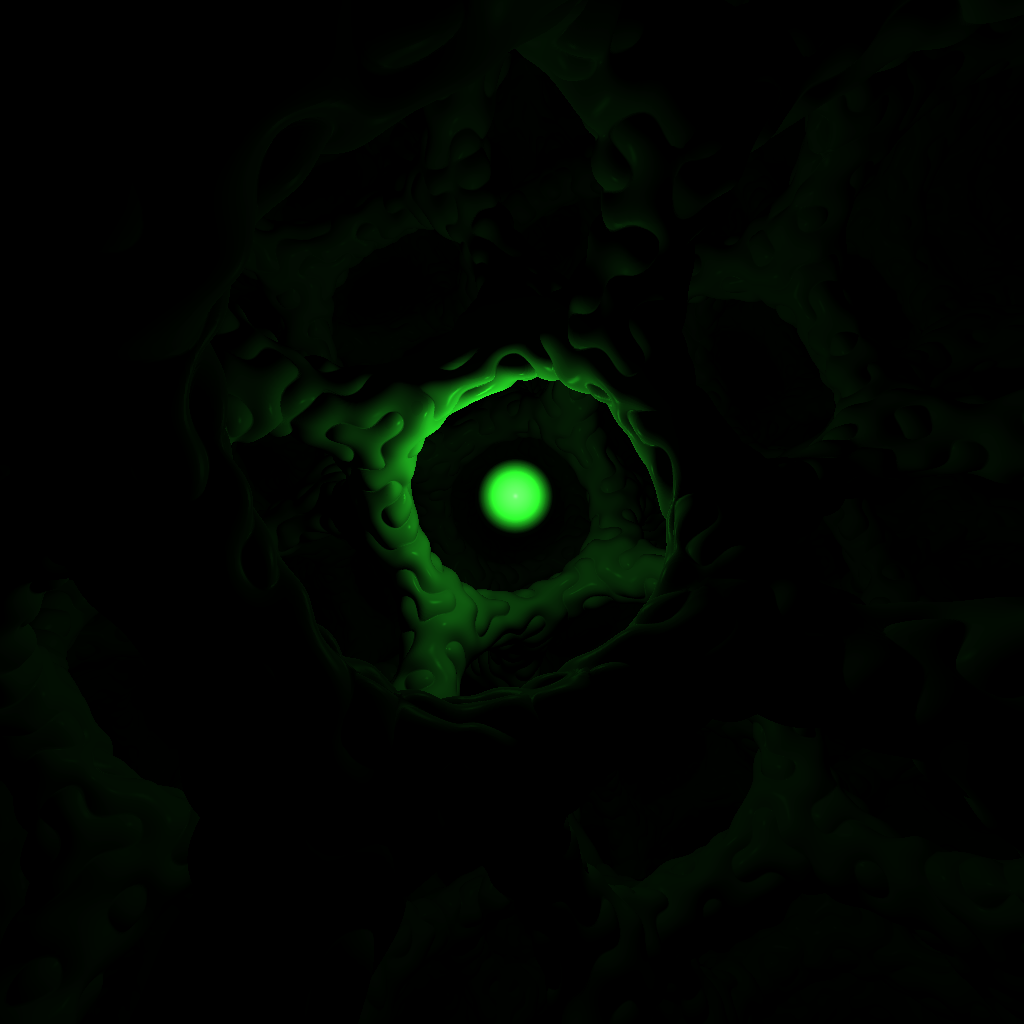
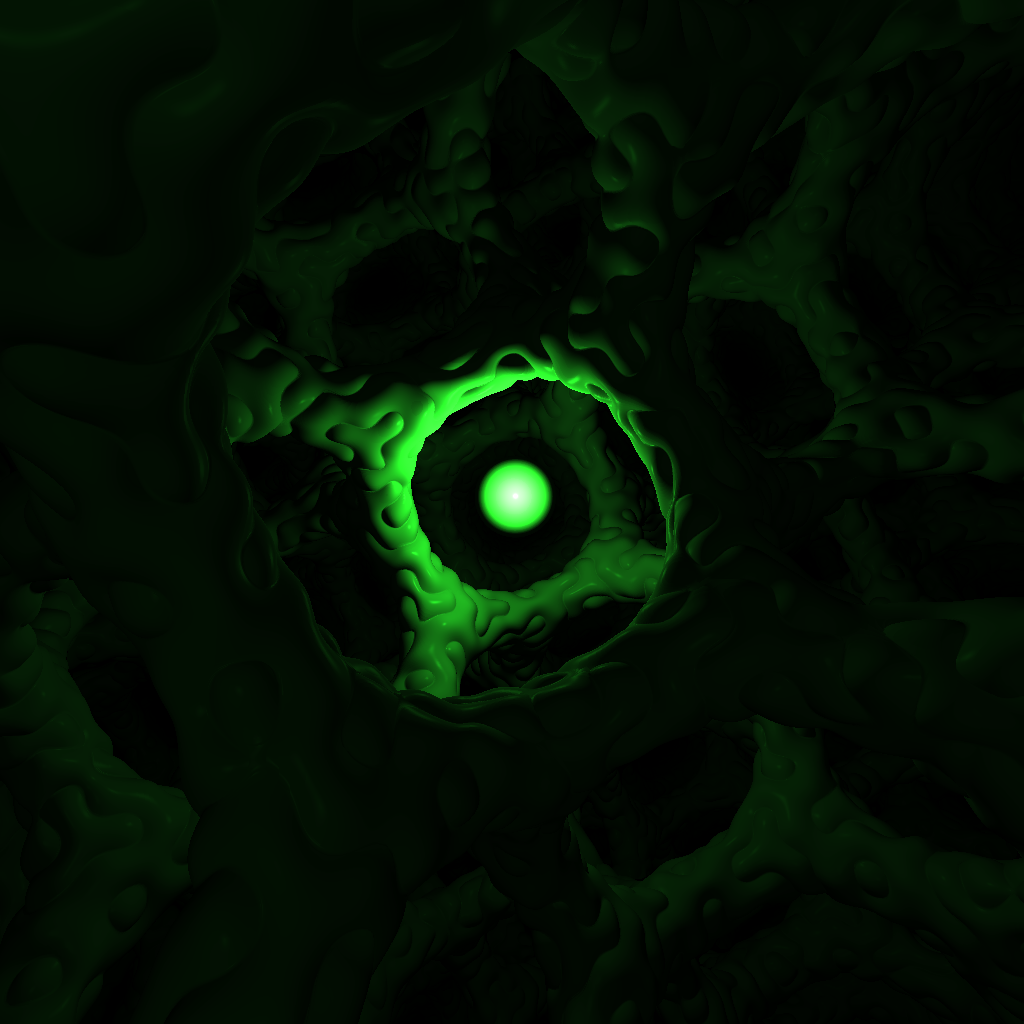
Update forest scene,Add smoothstep&normal coloring

diff --git a/scene.py b/scene.py
@@ -70,11 +70,14 @@ class Scene:
         hit = MarchRay(ray, self.object)
 
         if hit.collided:
-            return self.get_color(hit)
+            return self.get_color_phong(hit)
         else:
             return Vec3(*BACKGROUND_COLOR)
 
-    def get_color(self, hit):
+    def get_color_normal(self, hit):
+        return 255 * (hit.normal * 0.5 + 0.5)
+
+    def get_color_phong(self, hit):
         base_color = Vec3(0,0,0)
 
         for light in self.lights:

diff --git a/utils.py b/utils.py
@@ -5,6 +5,10 @@ See examples.py, constants.py, or main.py for configurable code.
 def clamp(value, min_value, max_value):
     return min(max_value, max(min_value, value))
 
+def smoothstep(min_edge, max_edge, value):
+    value = clamp((value-min_edge) / (max_edge-min_edge), 0, 1)
+    return value * value * (3 - 2 * value)
+
 import random
 def random_color():
     ''' generates a tuple with 3 components in the range [0,255] '''

diff --git a/examples.py b/examples.py
@@ -143,7 +143,8 @@ def EnchantedForest():
     g = g + sphere(Vec3(0, -1, 7.2), 0.5)
 
     lights = [ 
-        Light(Vec3(0, -1, 6), Vec3(36, 200, 36), 2.0)
+        Light(Vec3(0, -1, +6), Vec3(36, 200, 36), 4.0),
+        Light(Vec3(0, -1, -6), Vec3(36, 200, 36), 8.0)
     ]
 
     return g, lights
